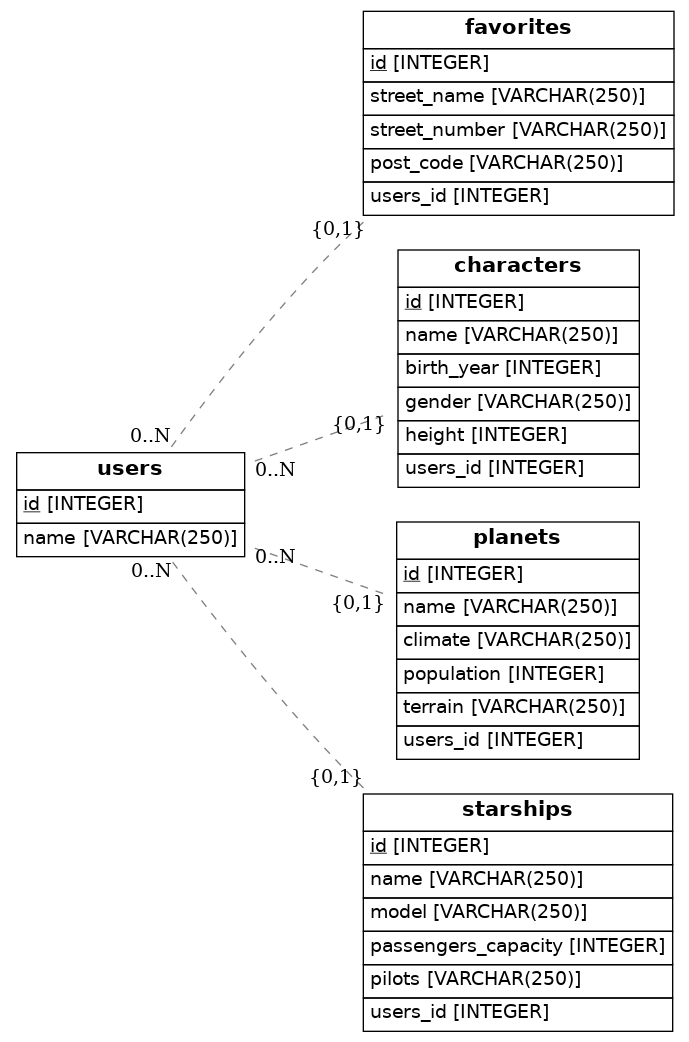
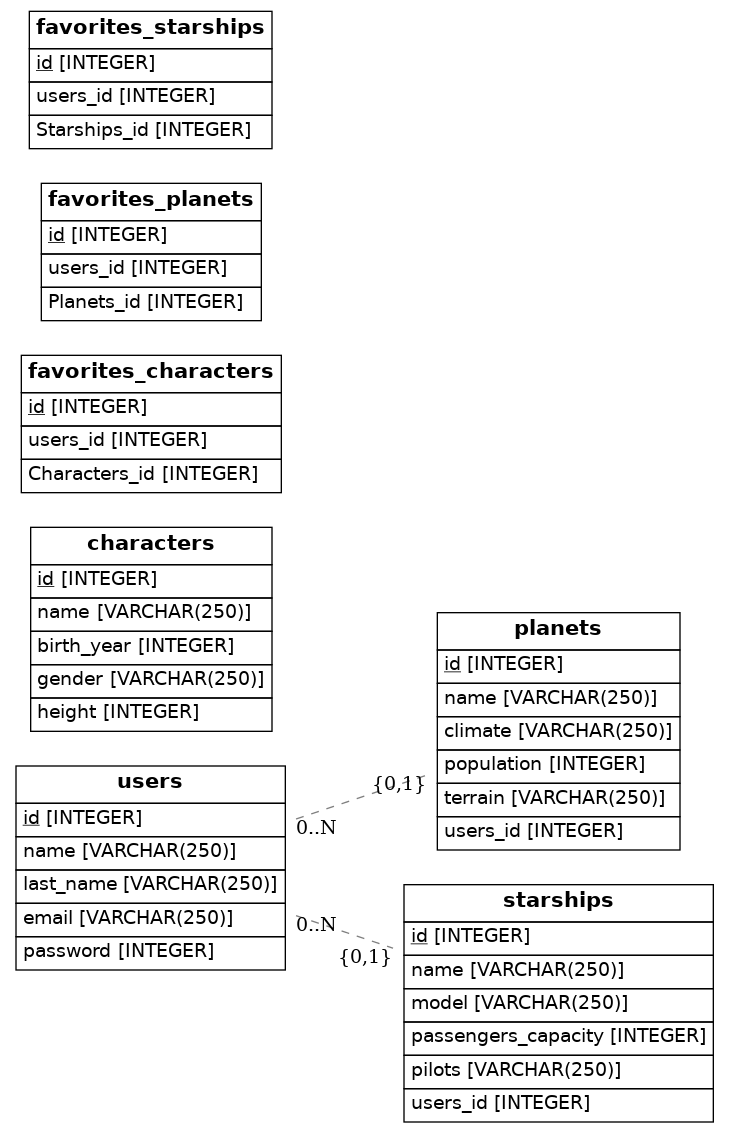
finalizando

diff --git a/src/models.py b/src/models.py
@@ -15,9 +15,9 @@ class Users(Base):
     last_name = Column(String(250), nullable=False)
     email = Column(String(250), nullable=False)
     password = Column(Integer, nullable=False)
-    characters = relationship("Characters")
-    planets = relationship("Planets")
-    starships = relationship("Starships")
+    
+    
+
 
 class Characters(Base):
     __tablename__ = 'characters'
@@ -26,15 +26,17 @@ class Characters(Base):
     birth_year = Column(Integer())
     gender = Column(String(250))
     height = Column(Integer())
-    users_id = Column(Integer, ForeignKey('users.id'))
-    Users = relationship(Users)
+    
+    
 
 class Favorites_characters(Base):
     __tablename__ = 'favorites_characters'
+    id = Column(Integer, primary_key=True)
     users_id = Column(Integer,ForeignKey("Users"))
     Characters_id = Column(Integer,ForeignKey("Characters"))
-    Users = relationship(Users)
-    Characters = relationship(Characters)
+    user = relationship("users.id")
+    character = relationship("character.id")
+    
 
 class Planets(Base):
     __tablename__ = 'planets'
@@ -44,12 +46,16 @@ class Planets(Base):
     population = Column(Integer)
     terrain = Column(String(250))
     users_id = Column(Integer, ForeignKey('users.id'))
-    Users = relationship(Users)
+    
+    
 
 class Favorites_planets(Base):
     __tablename__ = 'favorites_planets'
+    id = Column(Integer, primary_key=True)
     users_id = Column(Integer, ForeignKey("Users"))
-    Planets_id = Column(Integer, ForeignKey("Planets"))    
+    Planets_id = Column(Integer, ForeignKey("Planets"))
+    user = relationship("users.id")
+    planets = relationship("planets.id")    
 
 class Starships(Base):
     __tablename__ = 'starships'
@@ -59,12 +65,15 @@ class Starships(Base):
     passengers_capacity = Column(Integer)
     pilots = Column(String(250))
     users_id = Column(Integer, ForeignKey("users.id"))
-    Users = relationship(Users)   
+    
 
 class Favorites_starships(Base):
     __tablename__ = 'favorites_starships'
+    id = Column(Integer, primary_key=True)
     users_id = Column(Integer, ForeignKey("Users"))
-    Starships_id = Column(Integer, ForeignKey("Starships"))    
+    Starships_id = Column(Integer, ForeignKey("Starships"))
+    user = relationship("users.id")
+    starships = relationship("starships.id")    
 
 
     def to_dict(self):
